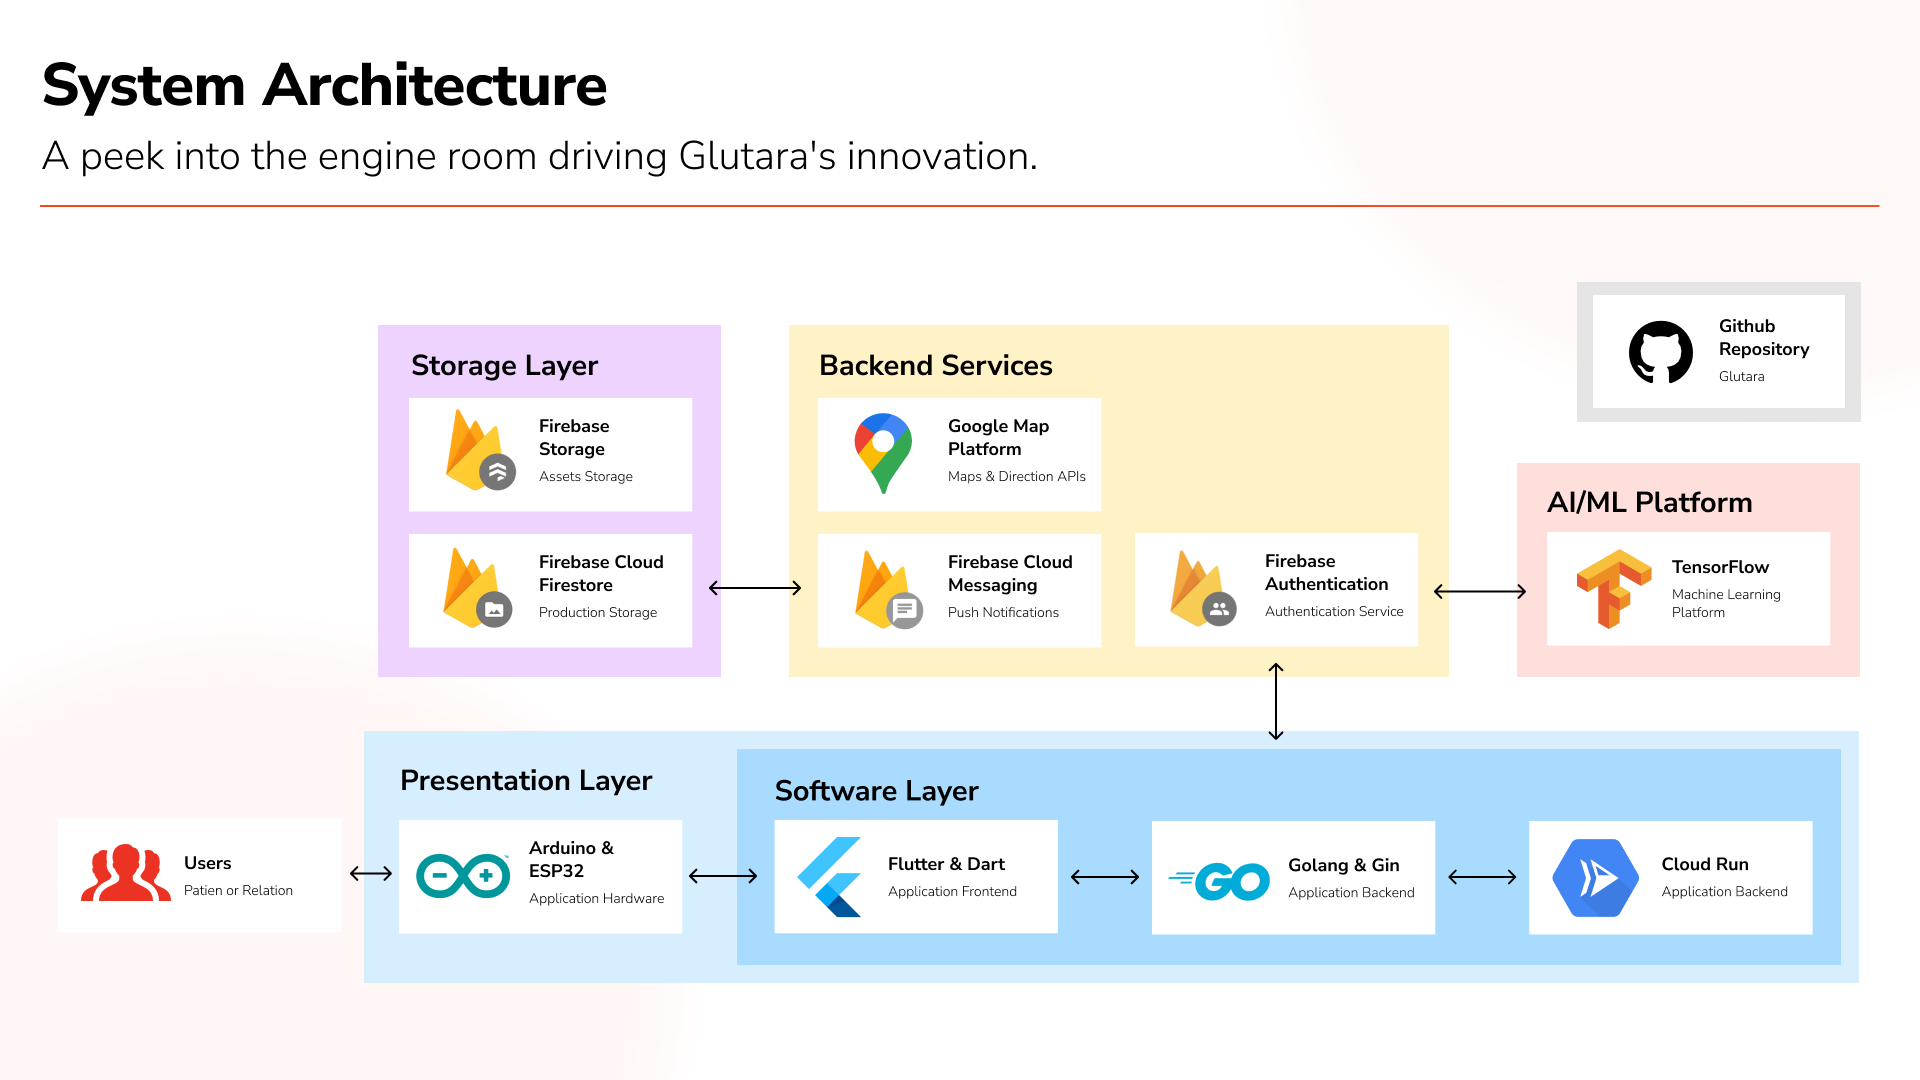
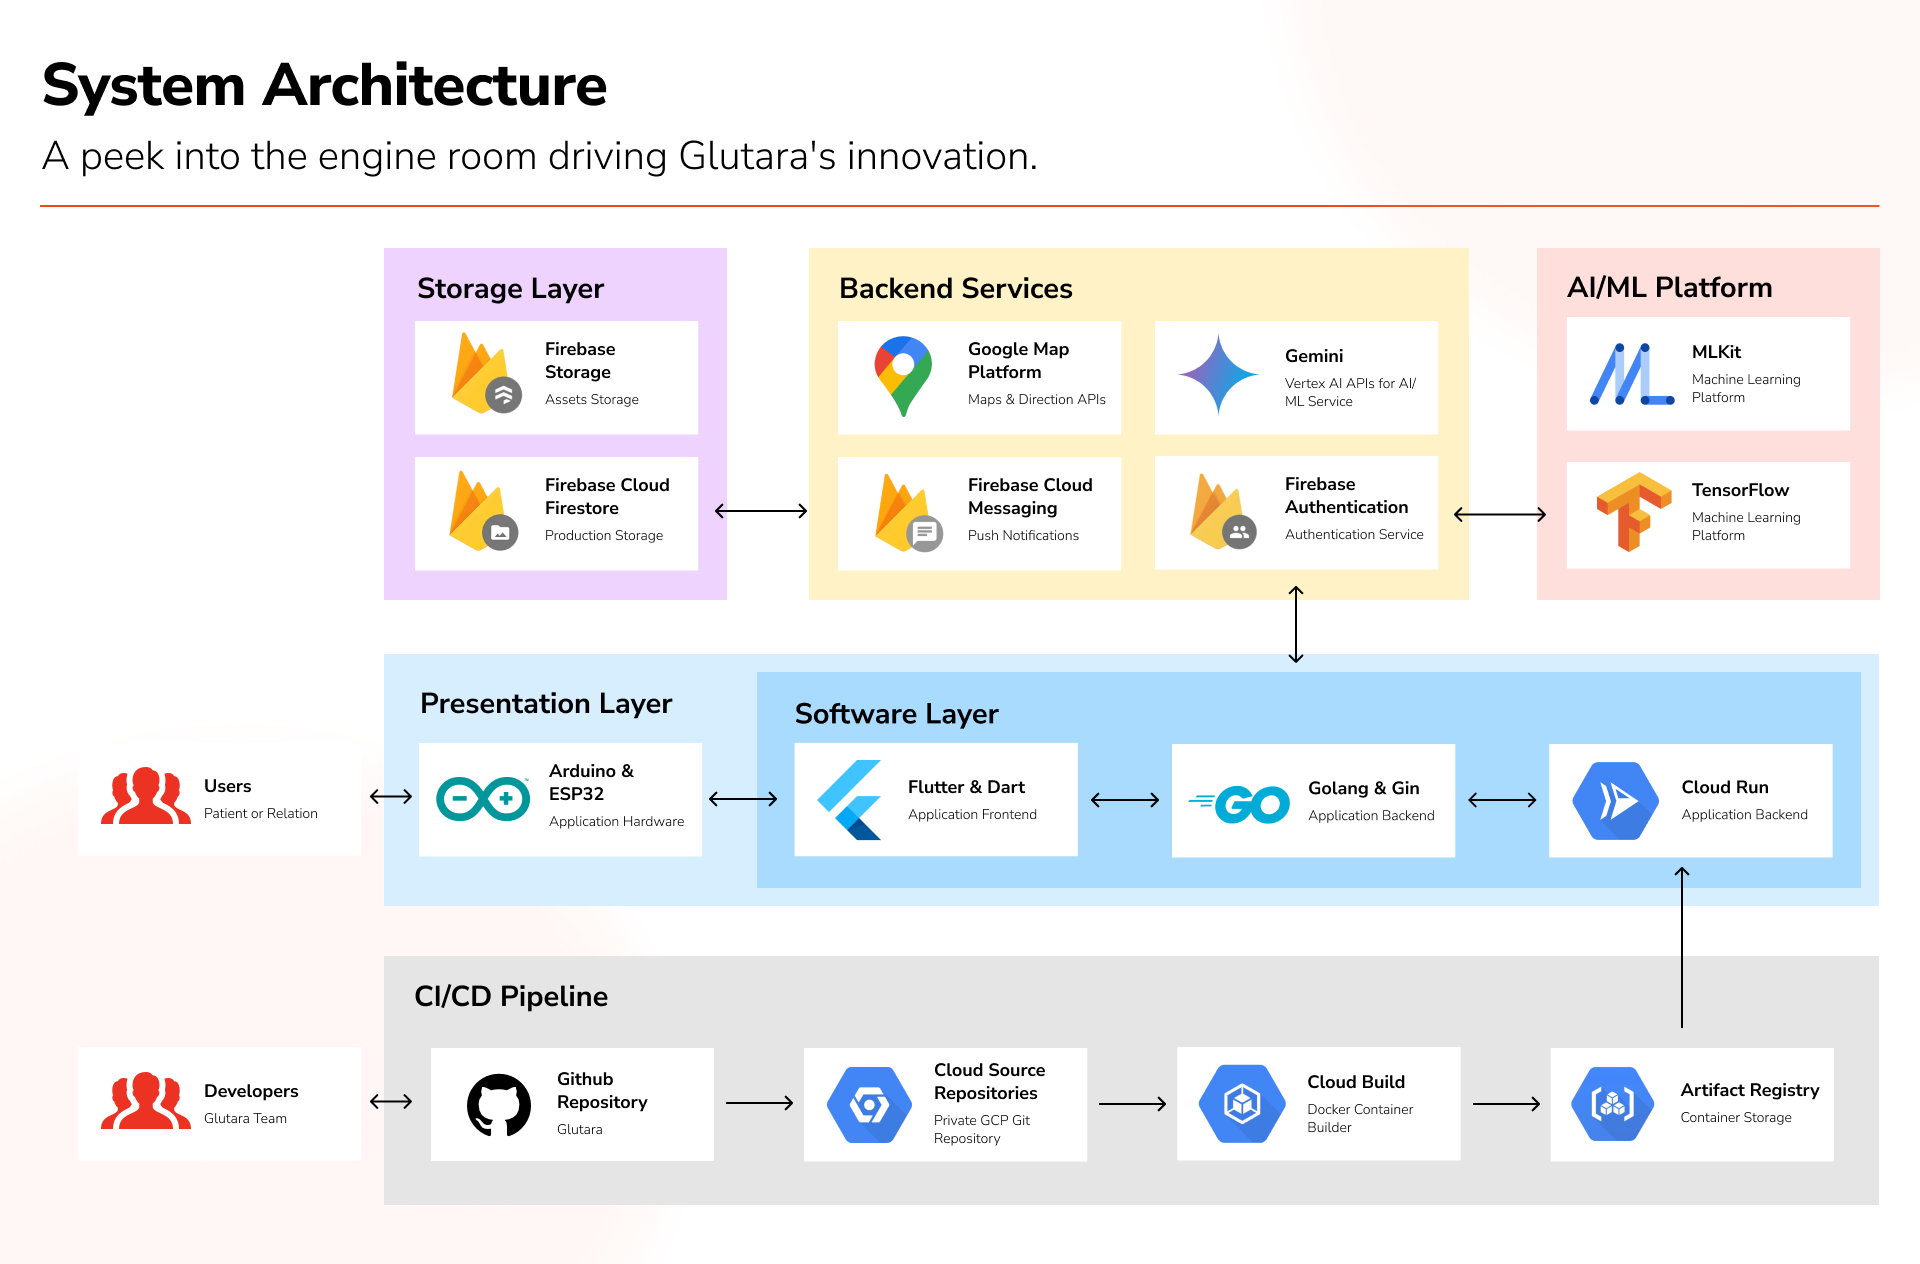
feat : glutara updates

diff --git a/profile/README.md b/profile/README.md
@@ -1,7 +1,7 @@
 <br>
 <div align="center">
     <div >
-        <img height="150px" src="assets/Glutara.png" alt=""/>
+        <img height="150px" src="https://firebasestorage.googleapis.com/v0/b/upheld-acumen-420202.appspot.com/o/readme-assets%2FGlutara.png?alt=media&token=77d4dd88-6cca-4e4d-94f2-321124c20a61" alt=""/>
     </div>
     <div>
             <h3><b>Glutara</b></h3>
@@ -33,7 +33,7 @@ Millions of individuals worldwide grapple with the relentless challenges of mana
 
 ## 💡 &nbsp;Solution Key Points
 
-![Solution Key Points](assets/Features.png)
+![Solution Key Points](https://firebasestorage.googleapis.com/v0/b/upheld-acumen-420202.appspot.com/o/readme-assets%2F.github%2FFeatures.png?alt=media&token=5131a435-7e23-40d7-b4f9-2820c50f4a16)
 
 ### 1. Pain-Free Precision
 
@@ -52,7 +52,7 @@ You're never alone with Glutara. Our **vibrant community connects individuals**,
 Accessing better health shouldn't break the bank. Glutara champions affordability and inclusivity, making diabetes management a possibility for everyone, regardless of background. Experience the transformative power of technology, free from financial barriers, and unlock a world of endless possibilities towards a healthier future.
 
 <a href="https://raw.githubusercontent.com/Glutara/.github/main/assets/UCD.png">
-<img src="assets/UCD.png" target="_blank" />
+<img src="https://firebasestorage.googleapis.com/v0/b/upheld-acumen-420202.appspot.com/o/readme-assets%2F.github%2FUCD.png?alt=media&token=52bc9137-841f-4792-bdd1-968c26123719" target="_blank" />
 </a>
 <br />
 
@@ -64,7 +64,7 @@ This user case diagram gives an overview of the features of Glutara.
 
 ### SDG 3: Good Health and Well-Being (Target: 3.4)
 
-![SDG3](assets/SDG3.png)
+![SDG3](https://firebasestorage.googleapis.com/v0/b/upheld-acumen-420202.appspot.com/o/readme-assets%2F.github%2FSDG3.png?alt=media&token=ae1f8e2a-8b13-4be0-b300-845957681943)
 
 The inspiration for Glutara lies in the millions of lives touched by diabetes. We saw an unmet need and harnessed the power of innovation to create a solution that makes a real difference. This isn't just about technology; it's about empowering individuals to reclaim their health and live life to the fullest.
 1. **Reducing Premature Mortality**
@@ -74,7 +74,7 @@ Diabetes isn't just a personal burden; it's a global health challenge. Glutara 
 
 ### SDG 9: Industry, Innovation, and Infrastructure (Target: 9.5)
 
-![SDG9](assets/SDG9.png)
+![SDG9](https://firebasestorage.googleapis.com/v0/b/upheld-acumen-420202.appspot.com/o/readme-assets%2F.github%2FSDG9.png?alt=media&token=6d1eb313-8d5b-479a-8ee3-d99136ebd68d)
 
 At the heart of Glutara lies a belief: Technology shouldn't be a barrier, but a bridge. We're passionate about making advanced solutions accessible and affordable, democratizing healthcare and improving the lives of millions.
 1. **Innovation that Empowers**
@@ -84,7 +84,7 @@ Ditch the needles, embrace freedom. Glutara's painless CGM technology is a game-
 
 ### SDG 11: Sustainable Cities and Communities (Target: 11.6)
 
-![SDG11](assets/SDG11.png)
+![SDG11](https://firebasestorage.googleapis.com/v0/b/upheld-acumen-420202.appspot.com/o/readme-assets%2F.github%2FSDG11.png?alt=media&token=0e657d50-0556-4c5b-aa4f-8a509f36837c)
 
 We believe a healthy planet and healthy communities go hand-in-hand. Glutara was born from the desire to not only empower individuals but also contribute to a more sustainable future for all. We envision cities where technology fosters well-being and builds resilient communities.
 1. **Greener Footprint, Healthier Future**
@@ -96,41 +96,50 @@ Diabetes shouldn't isolate individuals, especially those living alone in urban e
 
 <div align="center">
 <kbd>
-<img src="assets/icons/Flutter.png" height="60" />
+<img src="https://firebasestorage.googleapis.com/v0/b/upheld-acumen-420202.appspot.com/o/readme-assets%2Ficons%2FFlutter.png?alt=media&token=1f460ae7-f790-4400-9d9b-fc96f34e11a2" height="60" />
 </kbd>
 <kbd>
-<img src="assets/icons/Dart.png" height="60" />
+<img src="https://firebasestorage.googleapis.com/v0/b/upheld-acumen-420202.appspot.com/o/readme-assets%2Ficons%2FDart.png?alt=media&token=68dad83b-1358-4ef6-98b2-419fe4224f61" height="60" />
 </kbd>
 <kbd>
-<img src="assets/icons/Firebase.png" height="60" />
+<img src="https://firebasestorage.googleapis.com/v0/b/upheld-acumen-420202.appspot.com/o/readme-assets%2Ficons%2FFirebase.png?alt=media&token=da3b3135-dec1-4f6c-b0db-0051541754b6" height="60" />
 </kbd>
 <kbd>
-<img src="assets/icons/Go.png" height="60" />
+<img src="https://firebasestorage.googleapis.com/v0/b/upheld-acumen-420202.appspot.com/o/readme-assets%2Ficons%2FGo.png?alt=media&token=93e65685-5bfa-428d-a9e2-f3cecacbc004" height="60" />
 </kbd>
 <kbd>
-<img src="assets/icons/Gin.png" height="60" />
+<img src="https://firebasestorage.googleapis.com/v0/b/upheld-acumen-420202.appspot.com/o/readme-assets%2Ficons%2FGin.png?alt=media&token=bdd8b1d9-e6d4-477d-9d4f-0e7dd5a155d0" height="60" />
 </kbd>
 <kbd>
-<img src="assets/icons/TensorFlow.png" height="60" />
+<img src="https://firebasestorage.googleapis.com/v0/b/upheld-acumen-420202.appspot.com/o/readme-assets%2Ficons%2FTensorFlow.png?alt=media&token=25493f37-e246-4a99-ba38-9fa04a286265" height="60" />
 </kbd>
 <kbd>
-<img src="assets/icons/Maps.png" height="60" />
+<img src="https://firebasestorage.googleapis.com/v0/b/upheld-acumen-420202.appspot.com/o/readme-assets%2Ficons%2FMaps.png?alt=media&token=5f01c487-3892-4d93-a3e6-dac1909b1e17" height="60" />
 </kbd>
 <kbd>
-<img src="assets/icons/Arduino.png" height="60" />
+<img src="https://firebasestorage.googleapis.com/v0/b/upheld-acumen-420202.appspot.com/o/readme-assets%2Ficons%2FArduino.png?alt=media&token=534f1f06-02bc-42ef-a8c8-6bfbb612142f" height="60" />
 </kbd>
 <kbd>
-<img src="assets/icons/ESP32.png" height="60" />
+<img src="https://firebasestorage.googleapis.com/v0/b/upheld-acumen-420202.appspot.com/o/readme-assets%2Ficons%2FESP32.png?alt=media&token=908b5047-2893-4785-bb5a-acb1d5aa7ab4" height="60" />
+</kbd>
+<kbd>
+<img src="https://firebasestorage.googleapis.com/v0/b/upheld-acumen-420202.appspot.com/o/readme-assets%2Ficons%2FDocker.png?alt=media&token=3588896c-975f-496f-87d0-e7e1bce0d492" height="60" />
+</kbd>
+<kbd>
+<img src="https://firebasestorage.googleapis.com/v0/b/upheld-acumen-420202.appspot.com/o/readme-assets%2Ficons%2FMLKit.png?alt=media&token=e1fa8c3a-4cfa-4a5d-ad68-3bc29b7e0d21" height="60" />
+</kbd>
+<kbd>
+<img src="https://firebasestorage.googleapis.com/v0/b/upheld-acumen-420202.appspot.com/o/readme-assets%2Ficons%2FGemini%20(1).png?alt=media&token=39c99afa-b82c-45f7-b59c-4df0ccecfe54" height="60" />
 </kbd>
 </div>
 <div align="center">
-<h4>Flutter | Dart | Firebase | Go | Gin | TensorFlow | Google Maps Platform | Arduino | ESP32</h4>
+<h4>Flutter | Dart | Firebase | Go | Gin | TensorFlow | Google Maps Platform | Arduino | ESP32 | Docker | MLKit | Gemini</h4>
 </div>
 
 ## 🛠 &nbsp;System Architecture
 
 <a href="https://raw.githubusercontent.com/Glutara/.github/main/assets/System.png">
-<img src="assets/System.png" target="_blank" />
+<img src="https://firebasestorage.googleapis.com/v0/b/upheld-acumen-420202.appspot.com/o/readme-assets%2F.github%2FSystem%20Architecture.png?alt=media&token=1b132974-7b90-40e4-949b-598099a7d464" target="_blank" />
 </a>
 <br />
 
@@ -143,6 +152,7 @@ Diabetes shouldn't isolate individuals, especially those living alone in urban e
 **Click to get more information:**
 Glutara frontend mobile application: [Link](https://github.com/Glutara/glutara-mobile)
 Glutara backend: [Link](https://github.com/Glutara/glutara-backend)
+Glutara wearable hardware: [Link](https://github.com/Glutara/glutara-hardware)
 
 
 ### 2. Backend Services & Storage Layer
@@ -158,10 +168,21 @@ Many miscellaneous backend and storage services abstracted and handled via **Goo
 
 ### 3. AI/ML Platform
 
-Powered by TensorFlow's cutting-edge machine learning, Glutara extracts hidden patterns in your data, unlocking personalized insights and proactive health guidance.
+Powered by TensorFlow's cutting-edge machine learning, Glutara extracts hidden patterns in your data, unlocking personalized insights and proactive health guidance. There is also additional AI/ML services as detailed below.
+| AI/ML Service     | Purpose & Use                                                                                 |
+| ------------------------ | --------------------------------------------------------------------------------------------- |
+| MLKit     | QR generator and scanner for data transfer between patient and relation |
+| Gemini  | Using decriptive model to support food scan feature                                                 |
 
 **Click to get more information:**
 Glutara machine learning: [Link](https://github.com/Glutara/glutara-machine-learning)
+
+### 4. Implementation Design
+
+We are making sure that our solution is not only feasible to make but also comfortable for users to deal with it, especially the hardware device. So we also go through dense design plans and implementation.
+
+**Click to get more information:**
+Glutara 3D design: [Link](https://github.com/Glutara/glutara-3d-design)
 
 # Getting Started
 
@@ -171,6 +192,6 @@ Detailed instructions on how to run the application can be found [here](https://
 
 ## 👥 &nbsp;Contributors
 
-| <a href="https://github.com/mikeleo03"><img width="100px" height="100px" src="assets/picprof/Leon.png" alt=""/></a> | <a href="https://github.com/GoDillonAudris512"><img width="100px" height="100px" src="assets/picprof/Dillon.png" alt=""/></a> | <a href="https://github.com/margarethaolivia"><img width="100px" height="100px" src="assets/picprof/Olivia.png" alt=""/></a> | <a href="https://github.com/AustinPardosi"><img width="100px" height="100px" src="assets/picprof/Austin.png" alt=""/></a> |
+| <a href="https://github.com/mikeleo03"><img width="180px" height="180px" src="https://firebasestorage.googleapis.com/v0/b/upheld-acumen-420202.appspot.com/o/readme-assets%2Fpicprof%2FLeon.png?alt=media&token=0ea1884a-32ca-471b-a3af-bf3995bbc605" alt=""/></a> | <a href="https://github.com/GoDillonAudris512"><img width="180px" height="180px" src="https://firebasestorage.googleapis.com/v0/b/upheld-acumen-420202.appspot.com/o/readme-assets%2Fpicprof%2FDillon.png?alt=media&token=bc76cc6b-5606-4351-8472-9c243c8b9da3" alt=""/></a> | <a href="https://github.com/margarethaolivia"><img width="180px" height="180px" src="https://firebasestorage.googleapis.com/v0/b/upheld-acumen-420202.appspot.com/o/readme-assets%2Fpicprof%2FOlivia.png?alt=media&token=d53f9cfd-e1e1-41b6-a28c-440904df29b8" alt=""/></a> | <a href="https://github.com/AustinPardosi"><img width="180px" height="180px" src="https://firebasestorage.googleapis.com/v0/b/upheld-acumen-420202.appspot.com/o/readme-assets%2Fpicprof%2FAustin.png?alt=media&token=f520a334-4aeb-4efe-9437-669451b6dca6" alt=""/></a> |
 | ---------------------------------------------------------------------------------------------------------------------------------------------------------------------------------------------------------------------------------- | ----------------------------------------------------------------------------------------------------------------------------------------------------------------------------------------------------------------------------------- | -------------------------------------------------------------------------------------------------------------------------------------------------------------------------------------------------------------------------- | ----------------------------------------------------------------------------------------------------------------------------------------------------------------------------------------------------------------------------- |
-| <div align="center"><h3><b><a href="https://github.com/mikeleo03">Michael Leon Putra Widhi</a></b></h3><p>Hustler</p><p><i>Bandung Institute of Technology</i></p></div>                                                                               | <div align="center"><h3><b><a href="https://github.com/GoDillonAudris512">Go Dillon Audris</a></b></h3></a><p>Hacker</p><p><i>Bandung Institute of Technology</i></p></div>                                                                          | <div align="center"><h3><b><a href="https://github.com/margarethaolivia">Margaretha Olivia Haryono</a></b></h3></a><p>Hipster</p><p><i>Bandung Institute of Technology</i></p></div></a>                                                               | <div align="center"><h3><b><a href="https://github.com/AustinPardosi">Austin Gabriel Pardosi</a></b></h3></a><p>Hacker</p><p><i>Bandung Institute of Technology</i></p></div>                                                                            |
+| <div align="center"><h3><b><a href="https://github.com/mikeleo03">Michael Leon Putra Widhi</a></b></h3><i><p>Bandung Institute of Technology</i></p></div>                                                                               | <div align="center"><h3><b><a href="https://github.com/GoDillonAudris512">Go Dillon Audris</a></b></h3></a><p><i>Bandung Institute of Technology</i></p></div>                                                                          | <div align="center"><h3><b><a href="https://github.com/margarethaolivia">Margaretha Olivia Haryono</a></b></h3></a><p><i>Bandung Institute of Technology</i></p></div>                                                               | <div align="center"><h3><b><a href="https://github.com/AustinPardosi">Austin Gabriel Pardosi</a></b></h3></a><p><i>Bandung Institute of Technology</i></p></div>                                                                            |
